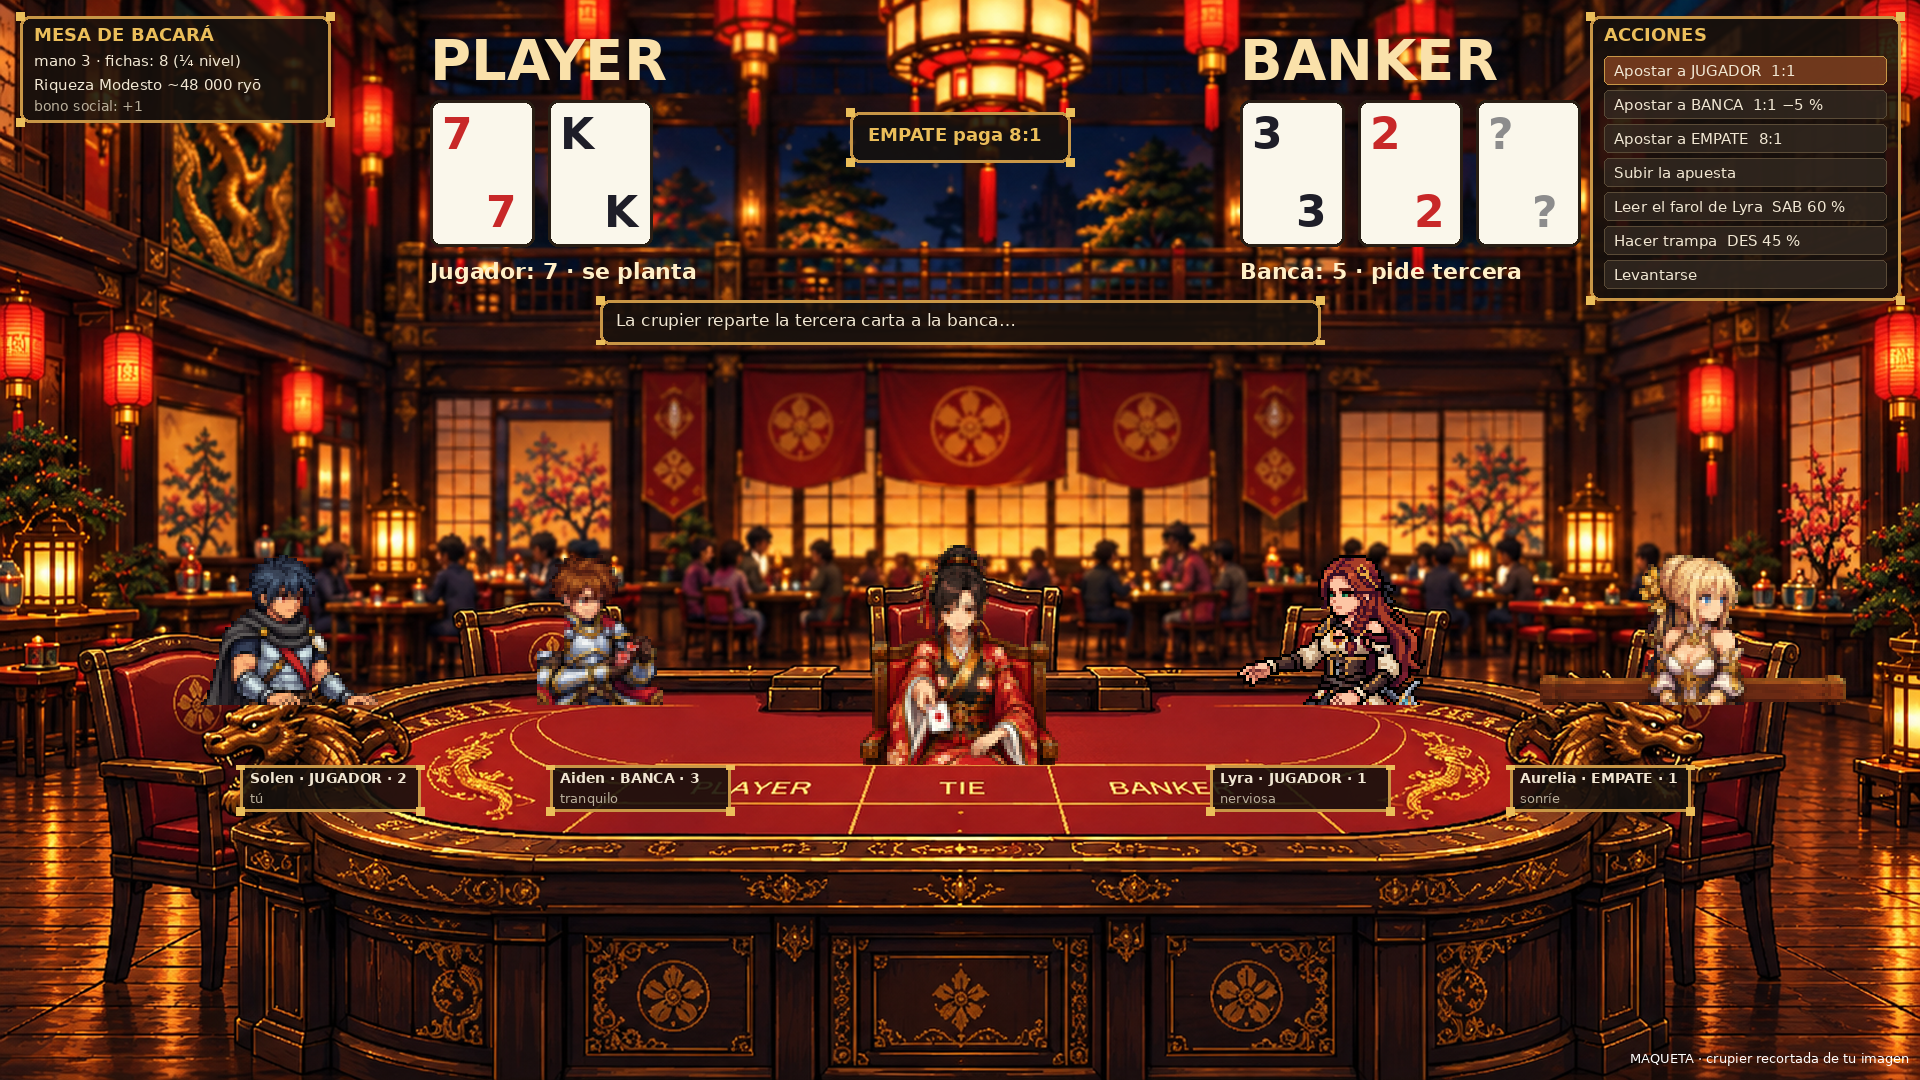
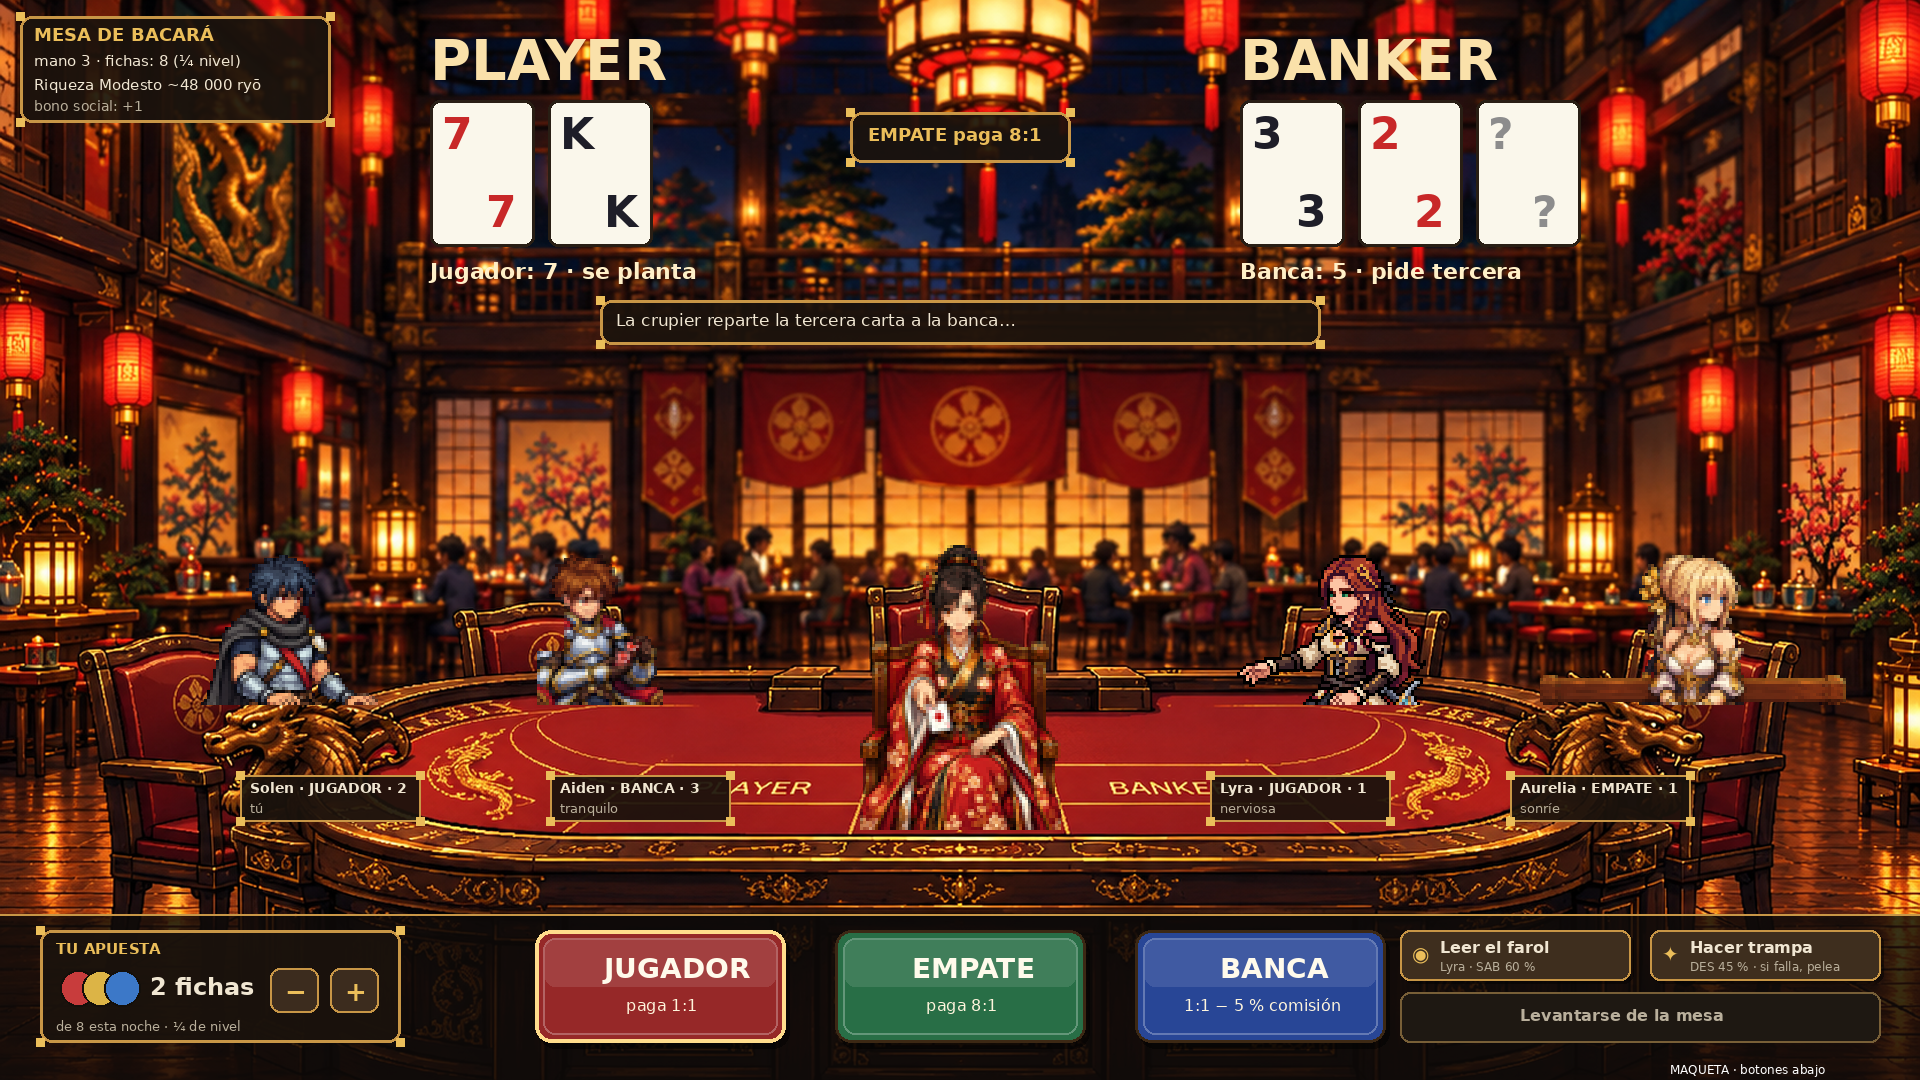
Baccarat: controls as big bottom buttons (the owner's direction); mock

diff --git a/docs/WORLD_DESIGN.md b/docs/WORLD_DESIGN.md
@@ -454,6 +454,15 @@ de los cinco (el dueño, 2026-10-28: *"pon a la crupier de kimono y quita a Roma
 kimono rojo con el pelo recogido, con sus dos cuadros de repartir; en otros packs, el crupier del
 local (un androide en la cantina espacial, un tipo de esmoquin en el club).
 
+**Los controles van abajo, como botones grandes** (el dueño, 2026-10-28: *"cambia el interfaz por
+botones elegantes y satisfactorios en la parte de abajo"*): una barra inferior con **tres botones
+de apuesta** del color de su zona del tapete (JUGADOR rojo, EMPATE verde, BANCA azul; el pago
+debajo), el **selector de fichas** a la izquierda (−/+, cuántas quedan de la noche) y, a la
+derecha, los **movimientos sociales** (leer el farol, hacer trampa) y *levantarse*. Cada botón
+responde con satisfacción: se hunde al pulsar, suena una ficha al apostar, el elegido queda
+iluminado hasta que sale la mano. Sin menú de lista a la derecha. Las cartas grandes se quedan
+arriba. Maqueta: `docs/mockups/bacara-backdrop-party-mockup.png`.
+
 Nuevas preguntas para el dueño, al final (W13–W15).
 
 ---
